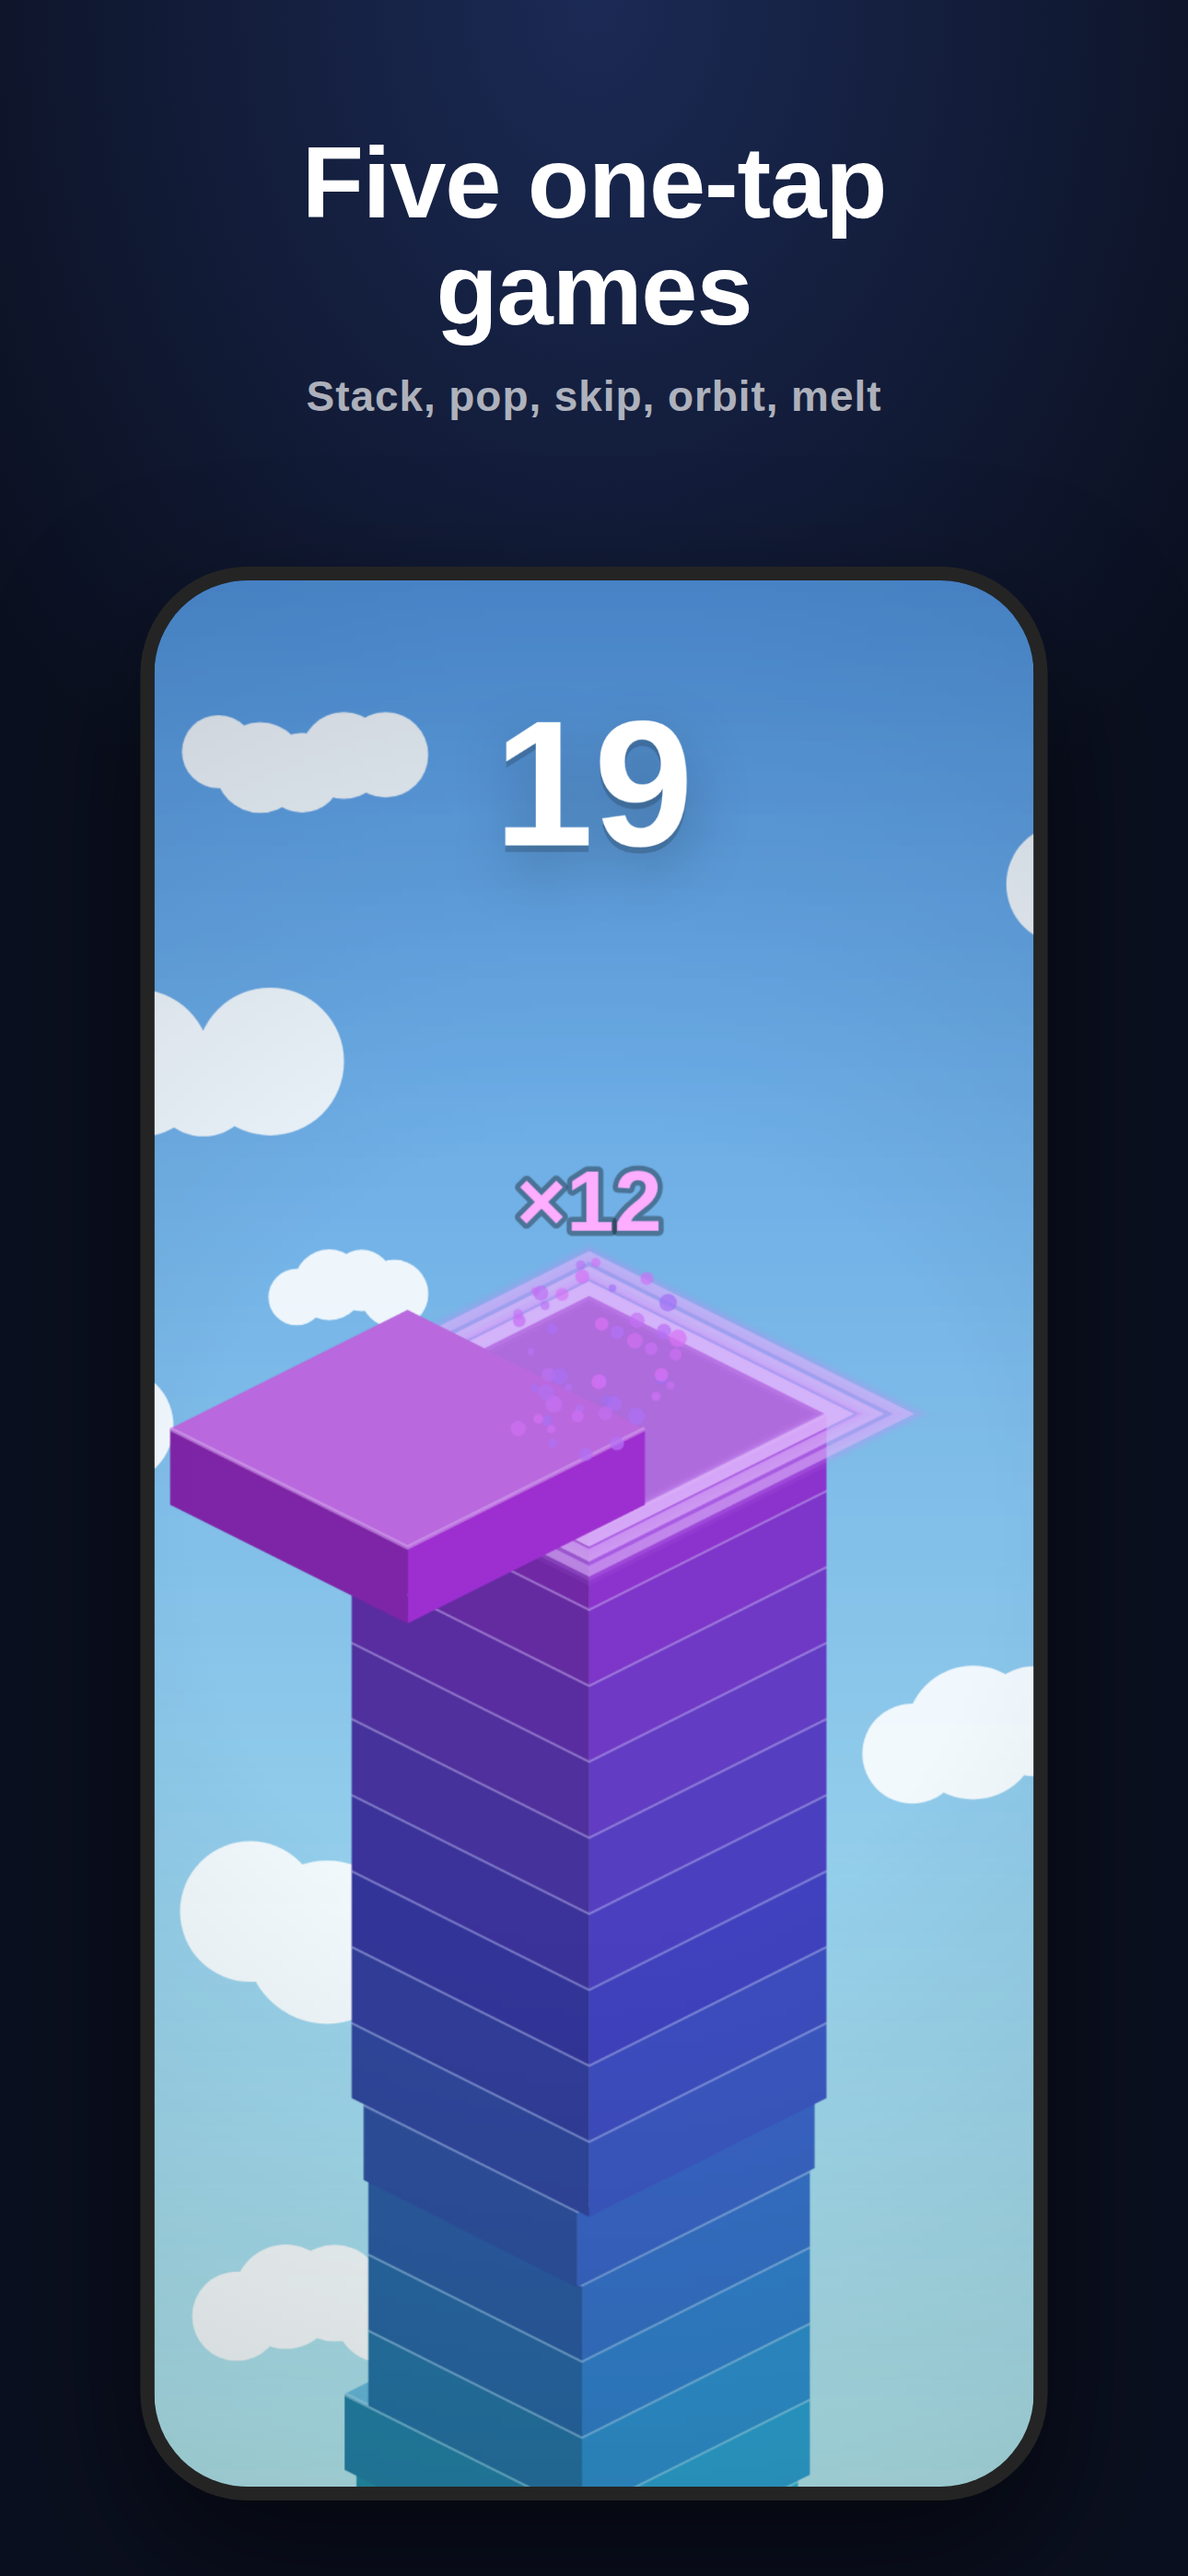
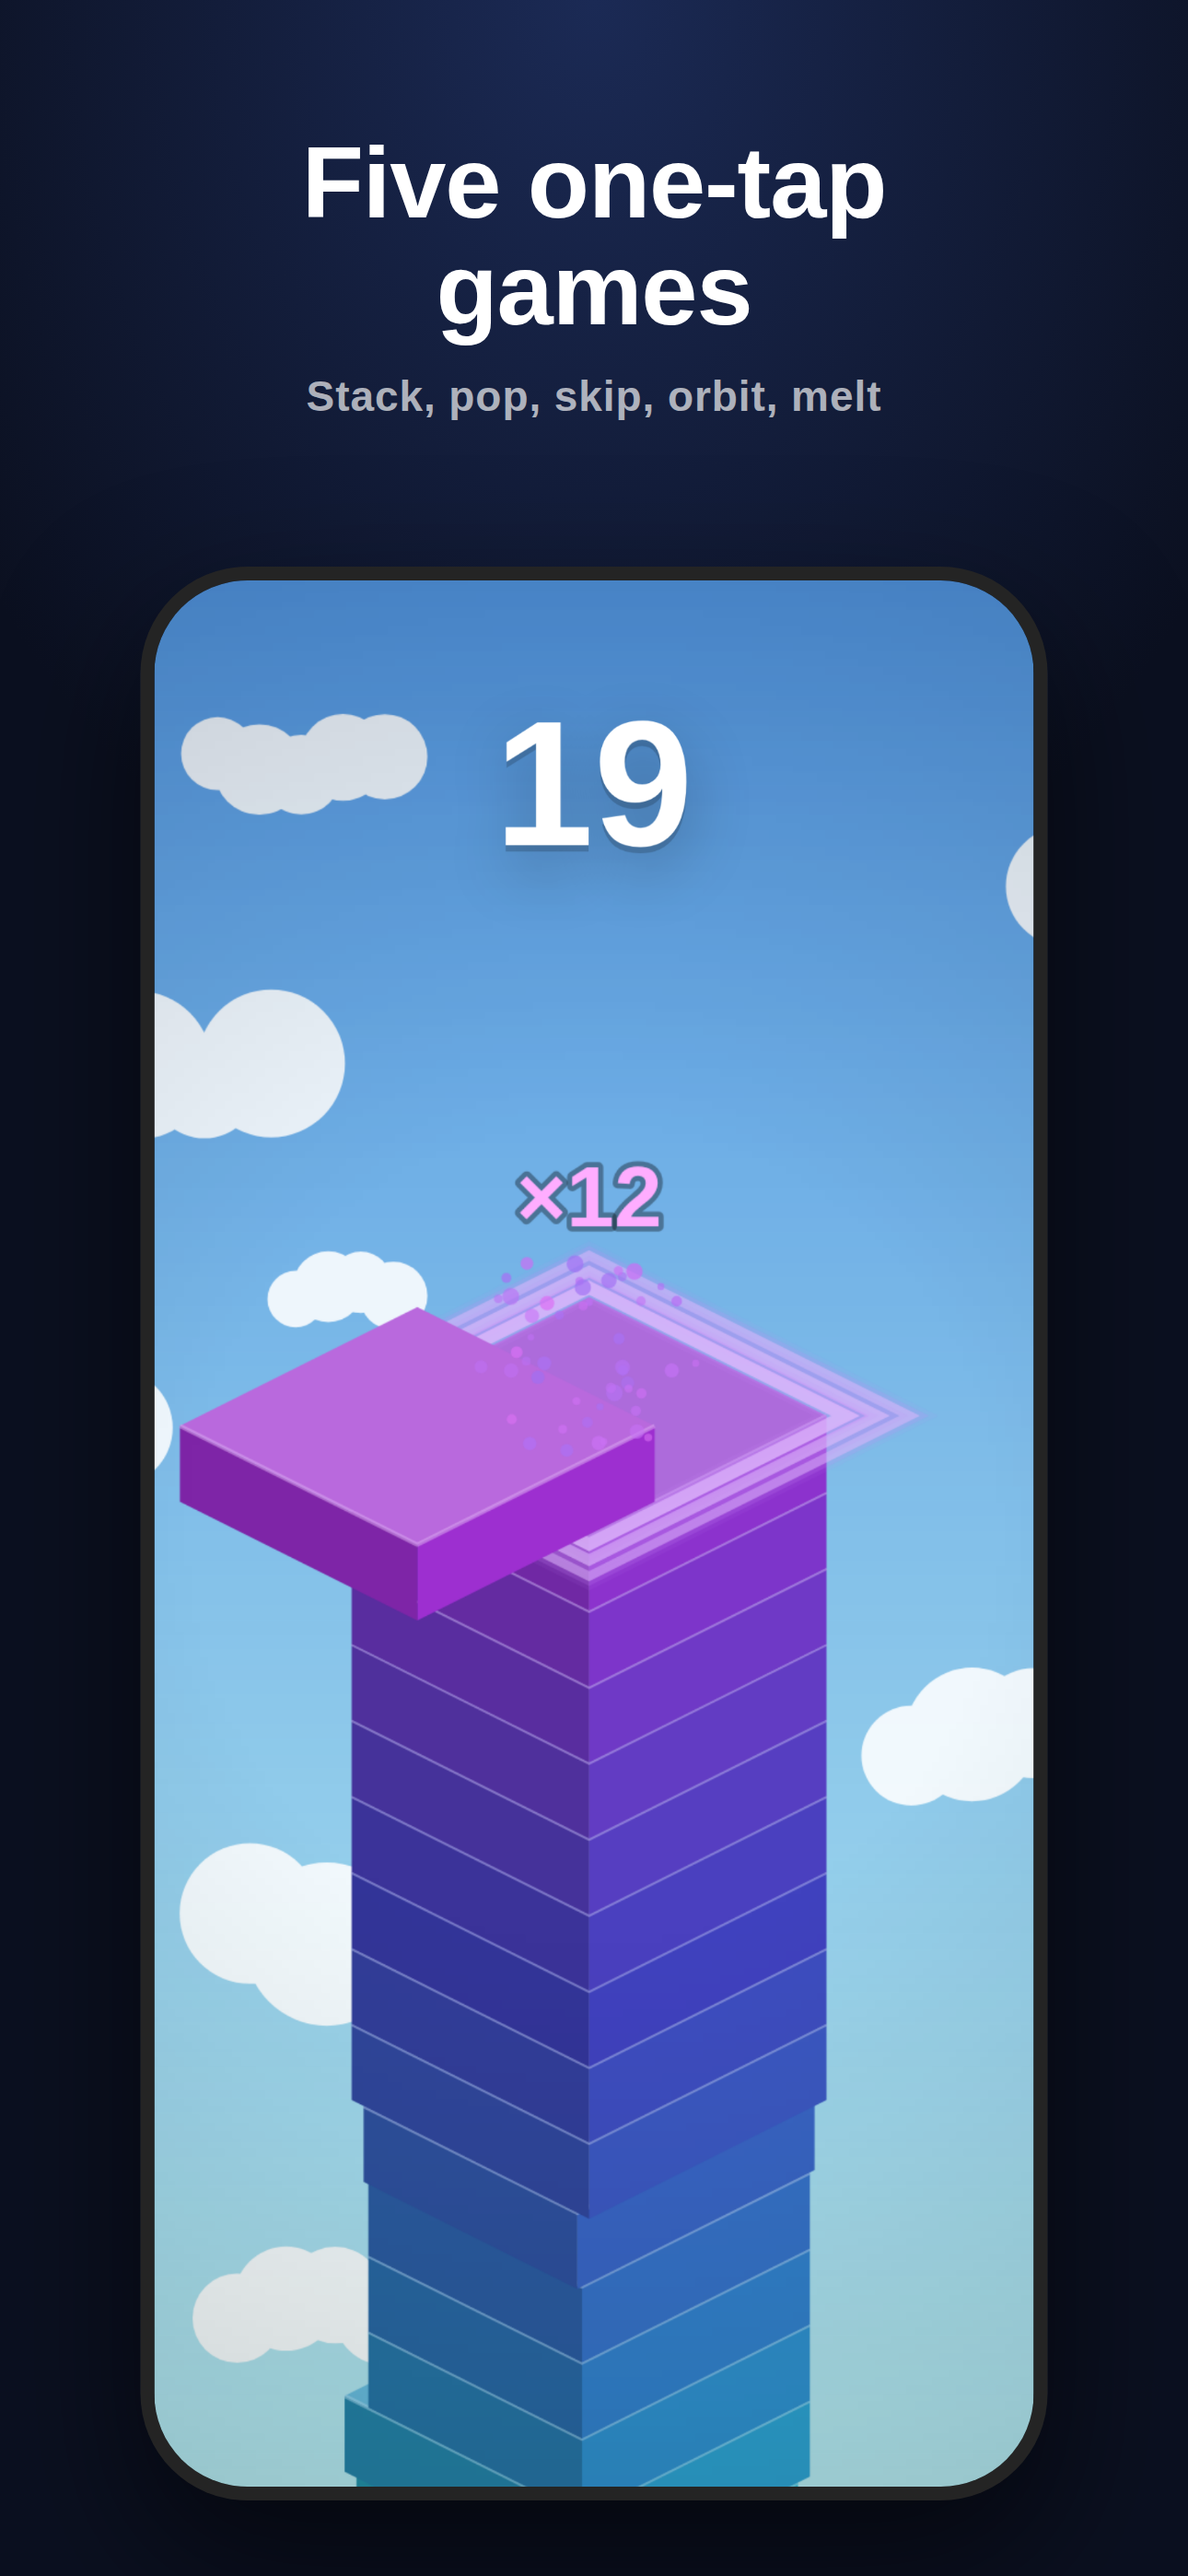
Board verdict: SHIP (12/12 reviewers + producer). Final store set, device checks for zoom and consent
The producer's final tally and ranked v1.1 backlog are in docs/review/producer-final.md.
Store screenshots re-rendered on the final build; the TestFlight checklist adds the
pinch/double-tap zoom check and the EU/UK consent + Privacy choices check;
LAUNCH.md records the verdict.

Claude-Session: https://claude.ai/code/session_01GN1ViAcJT7YnuN6Pfh4UL5

Changed region(s): [[0.124, 0.529, 0.3721, 0.6534], [0.3411, 0.4356, 0.5891, 0.529], [0.4651, 0.529, 0.7442, 0.6223]]

diff --git a/docs/review/producer-final.md b/docs/review/producer-final.md
@@ -1,0 +1,116 @@
+# Producer — final vote
+
+I changed nothing in the repo. During this run HEAD moved from a981352 to **c476ec6**, a docs-only commit that adds `docs/review/round3-artist3-final.md`. The working tree is clean.
+
+`npm test` passed **93/93**: root 15, melt 16, skip 24, pop 14, orbit 9, sky-temple 15. I did not run the render tools.
+
+CI (GitHub Actions) at a981352 passed all three jobs: unit tests and web build, browser smoke tests, and the iOS shell compile. The iOS compile also passed at caf72d2, the commit that changed the Swift consent code. CI on c476ec6 was still queued when I checked; it only adds a doc.
+
+## Tally (seat → latest vote → source)
+| Seat | Latest vote | Source |
+|---|---|---|
+| Engineer 1 | SHIP | round3-confirmation.md:13 |
+| Engineer 2 | SHIP | round2-engineering.md:5 |
+| Engineer 3 | SHIP | round2-engineering.md:6 |
+| Artist 1 | SHIP | round3-confirmation.md:14 |
+| Artist 2 | SHIP | round2-art.md:7 |
+| Artist 3 | SHIP | round3-artist3-final.md:3 (replaces NOT YET at round3-artist3.md:3) |
+| Designer 1 | SHIP | round3-confirmation.md:23 |
+| Designer 2 | SHIP | round3-confirmation.md:27 |
+| Designer 3 | SHIP | round2-design.md:7 |
+| Technical Artist 1 | SHIP | round3-confirmation.md:22 |
+| Technical Artist 2 | SHIP | round2-techart.md:5 |
+| Technical Artist 3 | SHIP | round2-techart.md:6 |
+
+**12 of 12 seats vote SHIP. None vote NOT YET.**
+
+## Open P0/P1 check
+No P0 was raised in rounds 2 or 3. Here is where each P1 stands:
+
+**Fixed and checked by the seat or panel that raised it:**
+- **Engineering 1–2:**
+  - Consent is now required on every ad load, and Settings has a Privacy choices button.
+  - The age-band boundary is fixed.
+  - Both checked at round3-confirmation.md:32-33.
+- **Design 1–6:**
+  - The daily run can no longer be lost.
+  - SKIP lily pads now warn before they end a run.
+  - Levels unlock colour looks.
+  - Screen readers announce the game cards as buttons.
+  - "Show tutorials again" works.
+  - MELT near-misses pay through a heat multiplier.
+  - All checked at round3-confirmation.md:53-67.
+  - Two changes differ from spec, and Designer 1 accepted both when voting SHIP. SKIP's timing windows are 0.10/0.20 s instead of 0.08/0.18. A timed player's median run is 27.6 s against the 30 s target.
+- **Tech art 1:** MELT runs at 26.0 ms against the 36 ms target (round3-confirmation.md:50).
+- **Art 2, 4 and 5:** frame 1 of the store set is now a game, the box icon was redrawn, and the SKIP icon was redrawn (round3-confirmation.md:39-42).
+- **Art 6–7, plus Artist 3's two new round-3 P1s:** SKIP's sink and pad animation, the Sky Temple tagline, the tagline sitting on the tower, and +SPEED printing over PERFECT. All were fixed at a981352 (round3-artist3-final.md:99-119).
+
+**Not formally closed by the seat that raised it.** None of these blocks the release:
+1. **Art 3, POP store frame (PARTIAL at round3-confirmation.md:40).** One burst ring is cut off at the left edge, and a bubble covers the score "31". No later commit fixes it. Artist 1 voted SHIP and called the leftovers "minor" (:19), but neither Artist 1 nor `docs/LAUNCH.md` lists it as deferred. It is cosmetic and the main moment ("CHAIN ×4 +20") is fully in frame. **Doesn't block.** It goes on the v1.1 list.
+2. **Art 1, remaining text overlaps outside SKIP.** POP's "FRENZY!" overlaps a combo pop in 3 of 2,340 frames (round3-confirmation.md:38). It is not in any store frame and Artist 1 accepted it. **Doesn't block.**
+3. **Tech art 2, seeded SKIP store frame (raised by Technical Artist 3).** It is fixed in code at `tools/store-screens.mjs:42`, which uses seed 4242 and waits until at most one text pop is on screen. Artist 1 confirmed a single "PERFECT ×7" (round3-confirmation.md:16). Technical Artist 3 never re-checked it, but that seat was already SHIP and said no re-review was needed (round2-techart.md:6). **Closed.**
+4. **Tech art 3, game music playing over the player's own music (raised by Technical Artist 2).** It is fixed in code: `src/extras.js:38,168`, `skip/src/main.js:125`, and the iOS app refreshes the flag on return (`GameView.swift:72`). Technical Artist 2 never re-checked it, but said it could land without another review (round2-techart.md:5). It can only be proven on a phone, and the device checklist covers it ("sound mixes with your music", CHECKLIST §E). **Doesn't block.**
+5. **Three round-1 P1s that were still open in round 2:** the store frames are rendered with a fallback font instead of SF Rounded, the web-only switcher handle sits on SKIP's buttons, and the MELT logo crosses the ceiling rail at 390 px. Technical Artist 3 moved all three to v1.1 (round2-techart.md:200-207) and voted SHIP. The font item is also in LAUNCH.md's deferred list. **Deferred by the seat.**
+
+**Small items engineering still owes.** None blocks the verdict:
+- Add Engineering's pinch-zoom check to the TestFlight list in `store/CHECKLIST.md` §E. Engineering asked for it at round2-engineering.md:72 and it is missing. The check: a stray pinch or double tap on a game's title, result or pause screen must not leave the game stuck zoomed.
+- The store screenshots were last rendered at 88616c9, before SKIP and Sky Temple changed in fcf81ba and a981352. Re-render them once on the final commit, ideally on a Mac (which also fixes the font), and check them by eye before upload.
+- Confirm CI is green on c476ec6.
+
+## Owner-side launch steps (not blockers to the board's verdict)
+1. **Apple Developer:** Team ID, then `bash ios/bootstrap.sh --team <TEAMID> --bundle com.<you>.gamebox`, then run it on your iPhone (CHECKLIST A–B).
+2. **App Store Connect** (CHECKLIST C):
+   - Create the app record and the five Game Center leaderboards.
+   - Fill in App Privacy (Tracking: No) and the age rating (4+).
+   - Paste the metadata and upload 7 screenshots at each of the two sizes.
+   - Create the non-consumable in-app purchase `com.mythicworld.gamebox.adfree`. Confirm you want this product ID even though the app's bundle ID will be `com.<you>.gamebox`.
+3. **Merge the branch to `main`.** Right now the deploy job is skipped on this branch, and the privacy policy URL `https://nickburum.github.io/Mythic-World/privacy/` only goes live once Pages deploys from `main`.
+4. **AdMob** (CHECKLIST D): create the app and one rewarded ad unit, paste both IDs into `ios/project.yml:65-66`, publish the GDPR message, and complete the payments profile. Those lines still hold Google's test IDs, and `fastlane release` refuses to ship them.
+5. **TestFlight device pass** (CHECKLIST E), plus the pinch-zoom check above. On a real iPhone, confirm:
+   - the age question appears, then the Continue ad pays out
+   - the Google consent form appears in the EU/UK
+   - Go ad-free buys in sandbox, and Restore brings it back
+   - game music stays silent while your own music plays
+   - Control Center pauses a run
+   - scores and streak survive a reinstall
+   - a challenge link opens the web version
+   - the Today card starts the daily run
+6. **Submit and day one** (CHECKLIST F–G): price Free, all territories, then tag `v1.0.0` and watch crash reports.
+
+## v1.1 backlog (top 8, one line each, from the seats' deferred items)
+1. **Consent leftovers (Engineer 1):** throw away a preloaded ad when the player withdraws consent, and show Privacy choices whenever Google's consent tool requires it, not only after a game has asked for an ad.
+2. **Identical challenge replays (Engineer 2, LAUNCH.md):** SKIP on a fixed 1/120 s step and a second random-number stream in ORBIT. Also fix MELT's heat multiplier, which inflates scores against existing bests.
+3. **Fairness (Engineer 2, Designer 1):** scale Sky Temple's perfect window with speed, add human-like play tests for ORBIT and Sky Temple, and keep SKIP's DIP! text up longer than 250 ms.
+4. **CI and release hardening (Engineer 3):**
+   - Make the iOS job required on release branches.
+   - Commit `Package.resolved` so dependency versions stop floating.
+   - Fix ORBIT's offline cache, which lists a file it can't find.
+   - Add a ~3 s timeout before a weak connection falls back to the offline copy.
+5. **Store set (Technical Artist 3, Artist 1):** render on a Mac with SF Rounded, add a CI check of screenshot counts and sizes, and re-capture POP's frame with the burst centred and the score clear.
+6. **UX and accessibility (Designers 1 and 3):**
+   - Dynamic Type and labels of at least 12 px.
+   - SKIP's title starts on a tap, and SKIP's results show "N short of your best".
+   - Remove the duplicate Share button.
+   - Move the back pill clear of SKIP's leaderboard arrow.
+   - A "Start here · POP" card on first launch.
+   - Keep daily credit for a run that ends after midnight, refresh the Today card at midnight, and say so when Restore finds nothing.
+7. **Audio (Technical Artist 2):** new-best stings in each song's own key, POP's lead line back in its proper range, ORBIT music that speeds up with the game, and a low-pass on MELT's harsh sound effects.
+8. **Art and juice (Artists 1–3, Technical Artist 3):**
+   - Characters for Sky Temple and SKIP.
+   - Sky Temple landing squash, a flash when MELT passes an obstacle, and keep MELT's screen moving through its death.
+   - Background depth layers for ORBIT and MELT.
+   - The Sky Temple icon on the night background like the others.
+   - Fix the MELT title offset and Sky Temple's grey result sheet.
+
+## Producer verdict
+**SHIP.** The board agrees v1.0 is ready for the App Store, pending only your account and device steps:
+- All 12 seats vote SHIP, and Artist 3, the last NOT YET, moved to SHIP at a981352.
+- Every P1 from rounds 2–3 is fixed and checked, or was accepted or deferred by the seat that raised it. The leftovers are cosmetic and not blocking: the POP store-frame clip and the rare FRENZY overlap.
+- Tests pass 93/93, and CI at a981352 is green on every job, including the iOS compile of the new consent code.
+- The legal check is clean, and the release-guard in `fastlane release` stops the test ad IDs from shipping.
+
+Most of my own round-1 conditions are met: the SKIP, ORBIT and POP simulations, performance at or under 36 ms, a full store set, and the meta layer.
+
+The two conditions that are not met are owner-side by nature: real AdMob IDs and a TestFlight pass on a real iPhone. No reviewer has run the rewarded ad, the consent form, the purchase or the music check on hardware. So treat CHECKLIST §E, with the pinch-zoom check added, as the gate before you press Submit.
+
+On the engineering side, before you upload: add that check to the list, re-render the store screenshots on the final commit, and confirm CI on c476ec6.

diff --git a/docs/LAUNCH.md b/docs/LAUNCH.md
@@ -1,6 +1,6 @@
 # Game Box — launch hand-off
 
-The code, art, store assets and docs for v1.0 are done and reviewed. What is left needs your Apple and Google accounts and one real iPhone. This page is the short version; `store/CHECKLIST.md` is the tick-list and `ios/APPLE-SETUP.md` the click-by-click guide.
+The code, art, store assets and docs for v1.0 are done and reviewed: **the 13-seat review board voted SHIP, 12 of 12 reviewers plus the producer** (`docs/review/producer-final.md`). What is left needs your Apple and Google accounts and one real iPhone. This page is the short version; `store/CHECKLIST.md` is the tick-list and `ios/APPLE-SETUP.md` the click-by-click guide.
 
 ## Where things are
 
@@ -30,4 +30,4 @@ Five one-tap games in one free app: POP (chain pops, frenzy), Sky Temple (stacki
 
 ## Deferred to v1.1 (board-agreed)
 
-Character art for Sky Temple and SKIP; Sky Temple offering stones; universal links (Associated Domains); a fixed-step SKIP simulation and a second RNG stream in ORBIT for perfectly identical challenge replays; Dynamic Type sizing; scale-aware stings and a higher POP lead line; store frames rendered on a Mac (SF Rounded).
+The producer's ranked v1.1 backlog is in `docs/review/producer-final.md`. In short: character art for Sky Temple and SKIP; Sky Temple offering stones; universal links (Associated Domains); a fixed-step SKIP simulation and a second RNG stream in ORBIT for perfectly identical challenge replays; Dynamic Type sizing; scale-aware stings and a higher POP lead line; store frames rendered on a Mac (SF Rounded).

diff --git a/store/CHECKLIST.md b/store/CHECKLIST.md
@@ -30,6 +30,8 @@ Tick top to bottom. Each line names where you do it. The code side is done; the 
 - [ ] Product ▸ Archive ▸ Distribute ▸ App Store Connect ▸ Upload.
 - [ ] Internal testers added; build installed on a real phone.
 - [ ] Smoke on device: every game plays; sound mixes with your music; on the 4th run the age question appears once, then Continue shows a test ad; Go ad-free in sandbox removes the ad (Restore brings it back after reinstall); Control Center pauses a run; delete + reinstall restores scores and streak; a challenge link opens the web version; today's run from the hub's Today card.
+- [ ] Zoom check: a stray pinch or double tap on a game's title, result sheet or pause screen never leaves the game zoomed (the hub allows zoom for accessibility; the WKWebView scroll view is locked).
+- [ ] Consent: in an EU/UK region (Settings ▸ General ▸ Language & Region, or a VPN) Google's consent form appears before the first ad, and Settings shows **Privacy choices** afterwards.
 
 ## F. Submit
 - [ ] Review notes pasted (`store/METADATA.md`).
